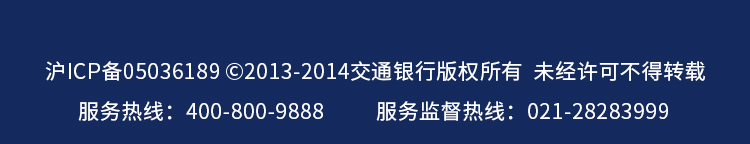
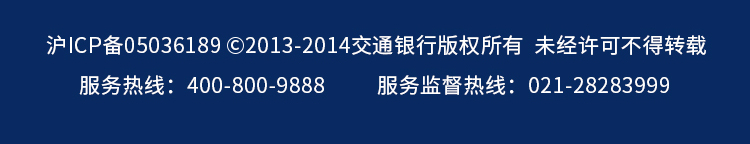
东航电销 图片更改

diff --git a/东航电销&切图包-WAP/check/css/index.css b/东航电销&切图包-WAP/check/css/index.css
@@ -76,6 +76,7 @@ img {
 html,
 body {
 	height: 100%;
+	background-color: #092962;
 }
 
 * {

diff --git a/东航电销&切图包-WAP/upload/css/index.css b/东航电销&切图包-WAP/upload/css/index.css
@@ -1,6 +1,7 @@
 html,
 body {
 	height: 100%;
+	background-color: #092962;	
 }
 
 * {
